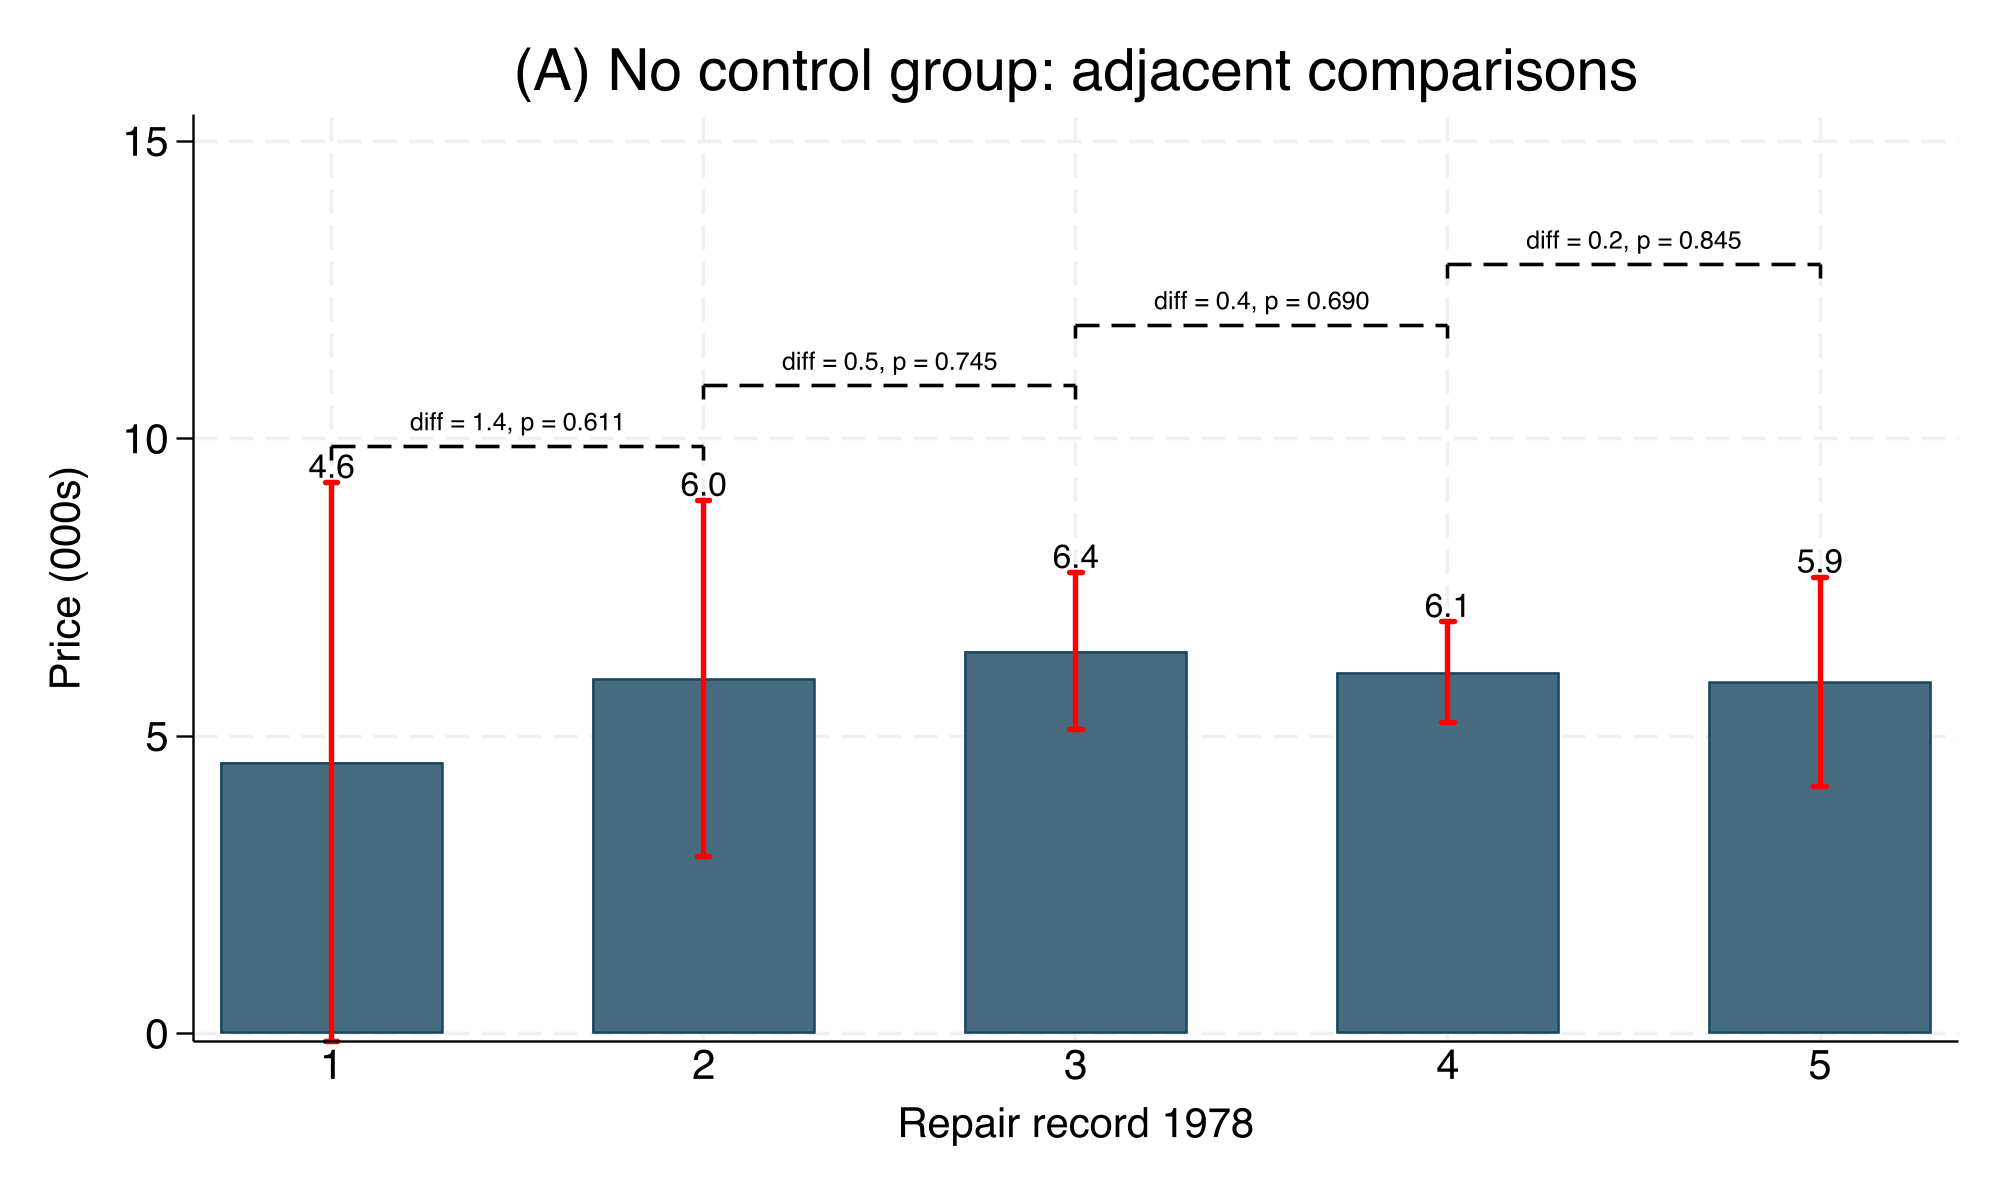
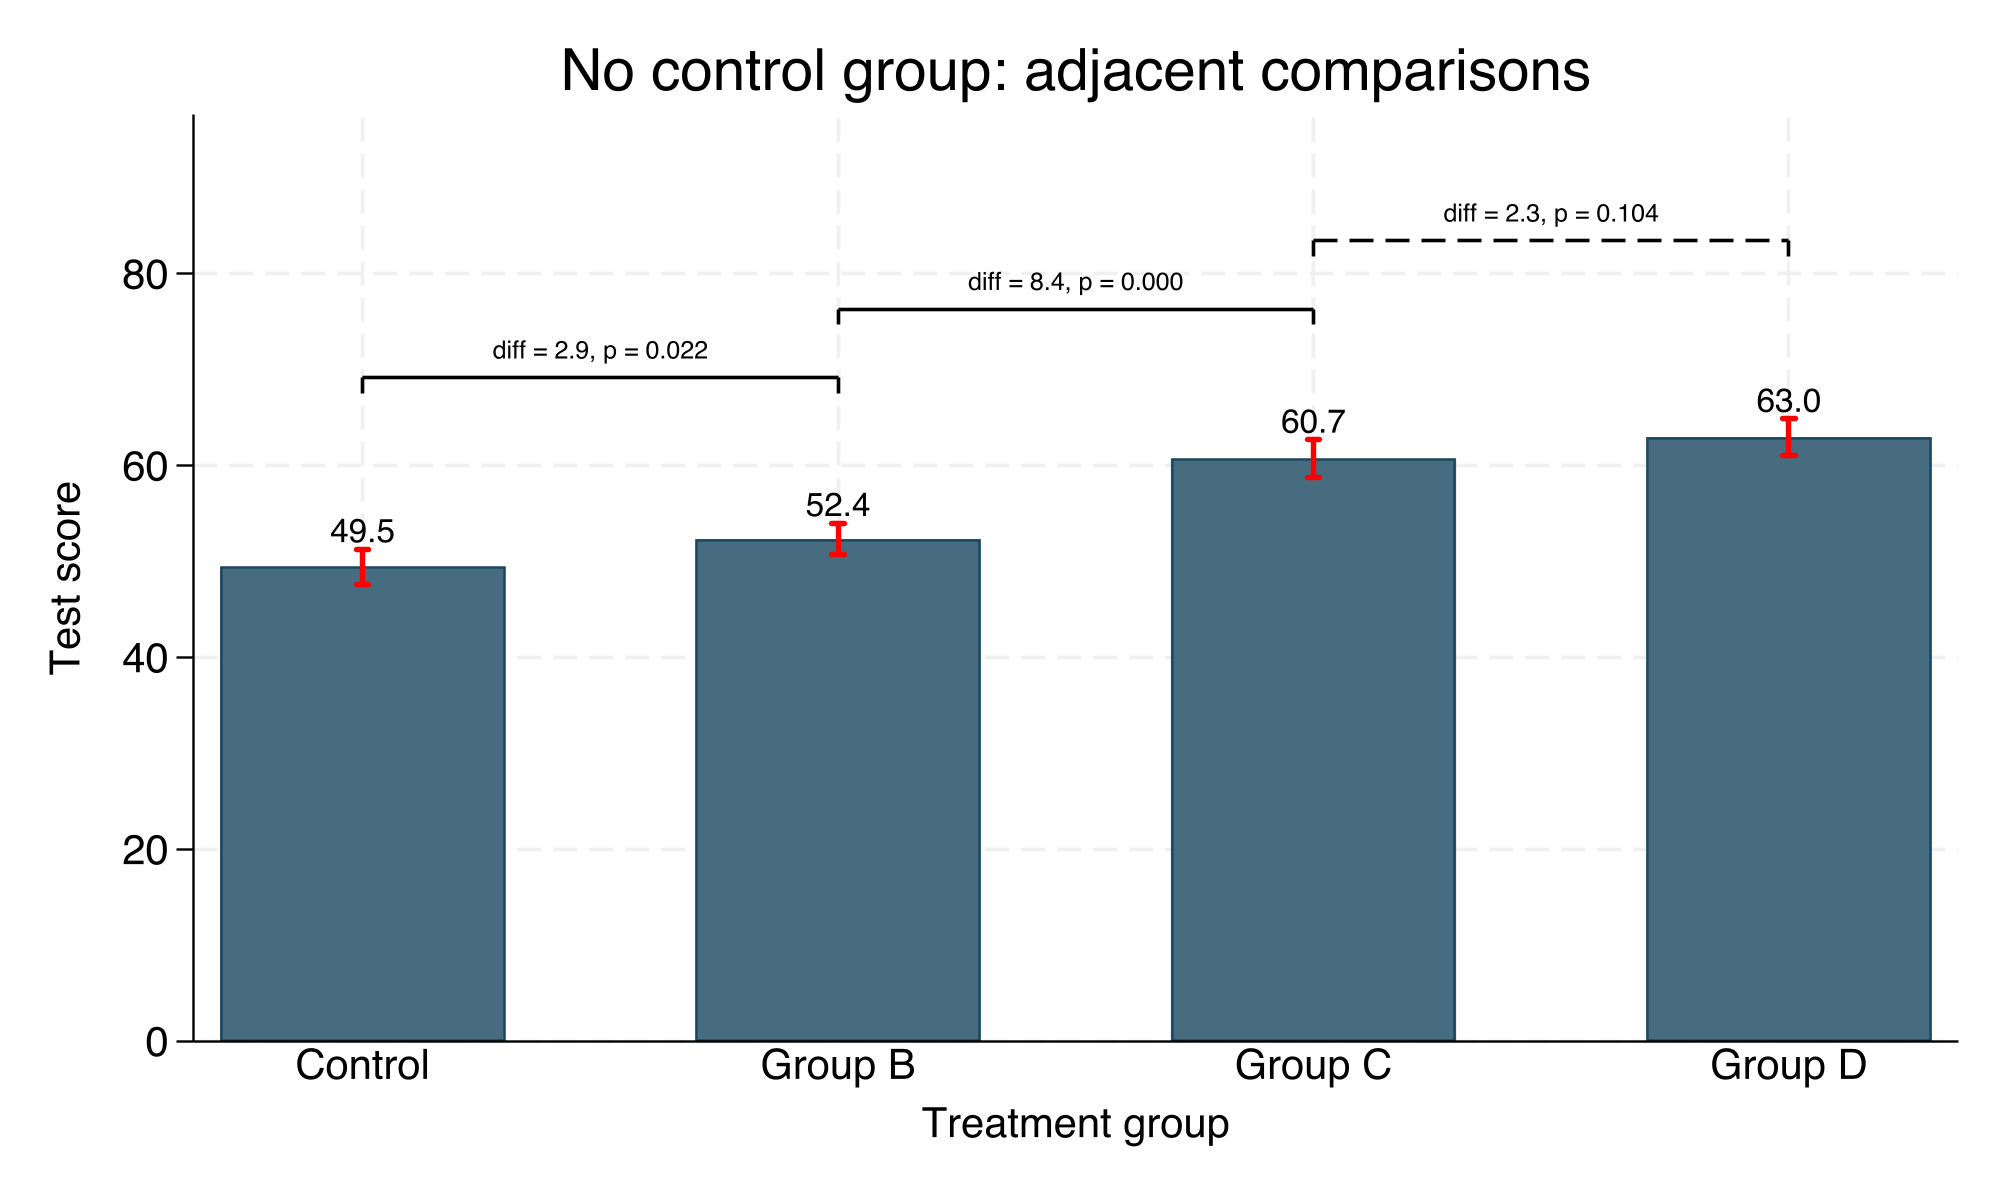
Refresh README figures (4-group data); finalize bio + examples

diff --git a/README.md b/README.md
@@ -50,6 +50,15 @@ use "https://raw.githubusercontent.com/ganma0517/stata_barttest/main/barttest_de
 barttest outcome, by(treat)
 ```
 
+Or use Stata's built-in data:
+
+```stata
+sysuse auto, clear
+barttest price, by(rep78)
+```
+
+![significant example](example_significant.png)
+
 ## Examples: with vs. without a control group
 
 ```stata
